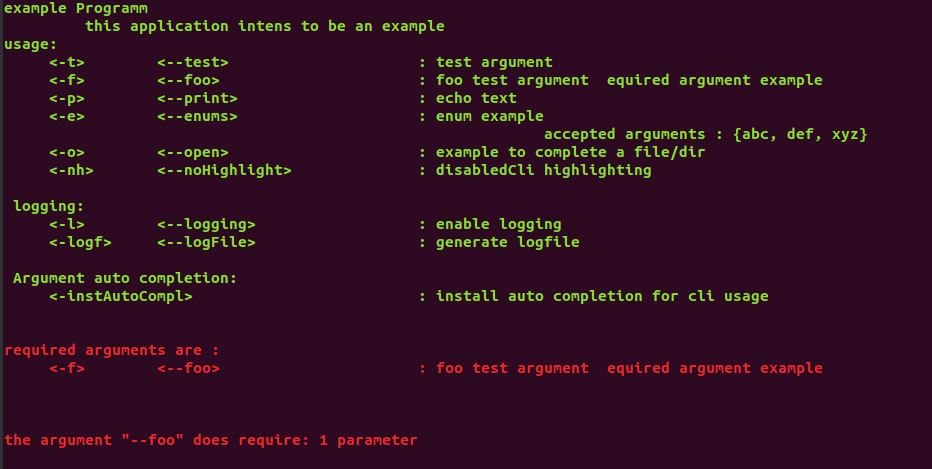
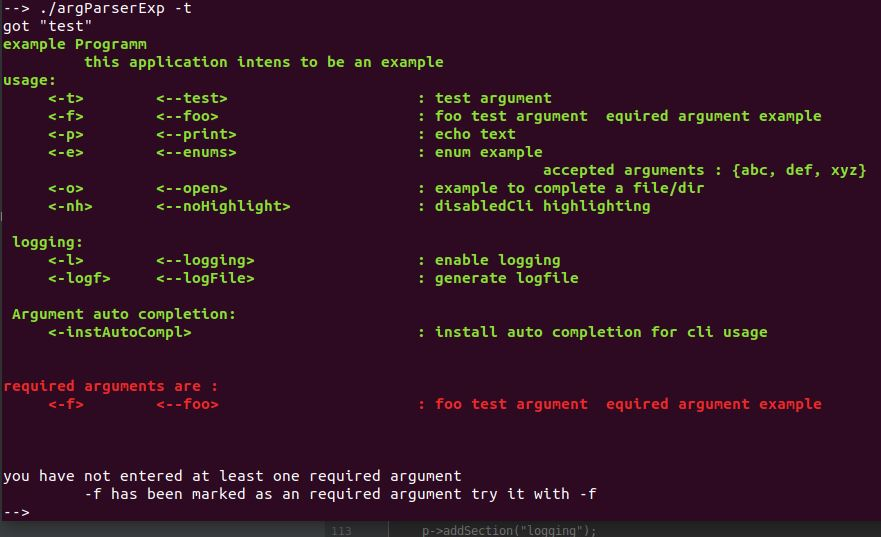
add simple example

diff --git a/exampleMainExtended.cpp b/exampleMainExtended.cpp
@@ -2,10 +2,16 @@
 #include "include/argvParser.h"
 using namespace std;
 
+/**
+ * callback function that get called if the corresponding argument get parsed
+ */
 int testCallBacl(int index,char** buff){
     cout << "got \"test\""<<endl;
     return index; // no further arguments used
 }
+/**
+ * argument that has additional parameter
+ */
 int fooCallBack(int index, char** buff){
     index++;
     cout << "got \"foo\" with : " << buff[index]<<endl;
@@ -21,12 +27,18 @@ int loggingCallBack(int index, char** buff){
     cout << "enable logging"<<endl;
     return index; // +1 because one further argument has been used
 }
+/**
+ * argument that has additional parameter
+ */
 int logFileCallBack(int index, char** buff){
     index++;
     cout << "log to "<< buff[index]<<endl;
     return index; // +1 because one further argument has been used
 }
 
+/**
+ * argument that has additional parameter
+ */
 int enumCallBack(int index, char** buff){
     index++;
     string got = string(buff[index]);
@@ -46,9 +58,11 @@ int callBachCli(int index, char** buff){
 }
 
 int main(int argvs, char** argv) {
-    argvParser *p = new argvParser("example Programm\n\t this application intens to be an example ");
+    // define program description
+    argvParser *p = new argvParser("extended example program\n\t this application intends to be an example ");
+    // define program arguments
     p->addArg("-t","--test","test argument",testCallBacl);
-    p->addArg("-f","--foo","foo test argument  equired argument example",fooCallBack,1,true);
+    p->addArg("-f","--foo","foo test argument  required argument example",fooCallBack,1,true);
     p->addArg("-p","--print","echo text",printCallBack,1);
     p->addArg("-e", "--enums", "enum example", enumCallBack, 1)->allowedParameter(3, "abc", "def", "xyz");
     p->addArg("-o","--open","example to complete a file/dir",printCallBack,1)->asFile();
@@ -57,9 +71,11 @@ int main(int argvs, char** argv) {
     p->addArg("-l","--logging" ,"enable logging",loggingCallBack);
     p->addArg("-logf","--logFile","generate logfile",logFileCallBack);
 
+    // check if all arguments are valid
     if(!p->analyseArgv(argvs,argv)){
         p->printHelpMessage(!disableCliH);
     }
+    // check if all required arguments have been parsed
     if(!p->foundAllRequierdArgs()){
         cout << "you have not entered at least one required argument  \n\t -f has been marked as an required argument try it with -f"<<endl;
     }

diff --git a/exampleMainSimple.cpp b/exampleMainSimple.cpp
@@ -1,0 +1,34 @@
+#include <iostream>
+#include "include/argvParser.h"
+using namespace std;
+
+/**
+ * callback function that get called if the corresponding argument get parsed
+ */
+int testCallBacl(int index,char** buff){
+    cout << "got \"test\""<<endl;
+    return index; // no further arguments used
+}
+
+/**
+ * argument that has additional parameter
+ */
+int printCallBack(int index, char** buff){
+    index++;
+    cout << "print : " << buff[index]<<endl;
+    return index; // +1 because one further argument has been used
+}
+
+int main(int argvs, char** argv) {
+    // define program description
+    argvParser *p = new argvParser("simple example program\n\t this application intends to be an example ");
+    // define program arguments
+    p->addArg("-t","--test","test argument",testCallBacl);
+    p->addArg("-o","--open","example to complete a file/dir",printCallBack,1)->asFile();
+
+    // check if all arguments are valid
+    if(!p->analyseArgv(argvs,argv)){
+        p->printHelpMessage(true);
+    }
+    return 0;
+}
